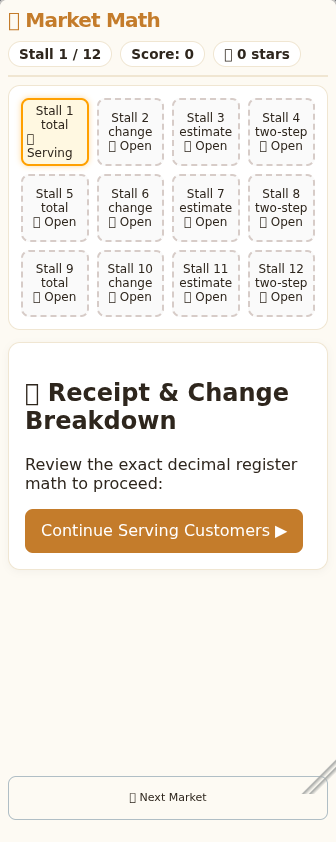
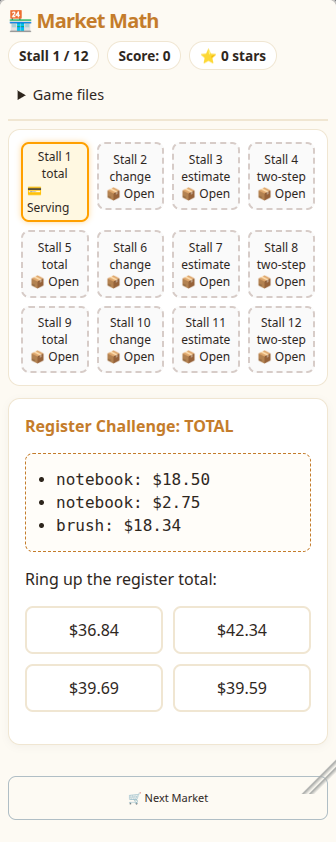
Show a round reopened through Files on desktop and phone

diff --git a/README.md b/README.md
@@ -10,4 +10,4 @@ The release candidate opened from Games → Learning & Strategy. The browser che
 
 Run the native suite in the WebOS npm workspace with `node --test tests/*.test.mjs` from this directory.
 
-Use **Game files → Save** to keep a round as `.market-math.json`. Open that file from WebOS Files to continue playing. Anon games stay in the browser until you register an account.
+Use **Game files → Save** to keep a round as `.market-math.json`. Open that file from WebOS Files to continue playing. Anon files last for this browser tab. Register before leaving to keep them in your account.
